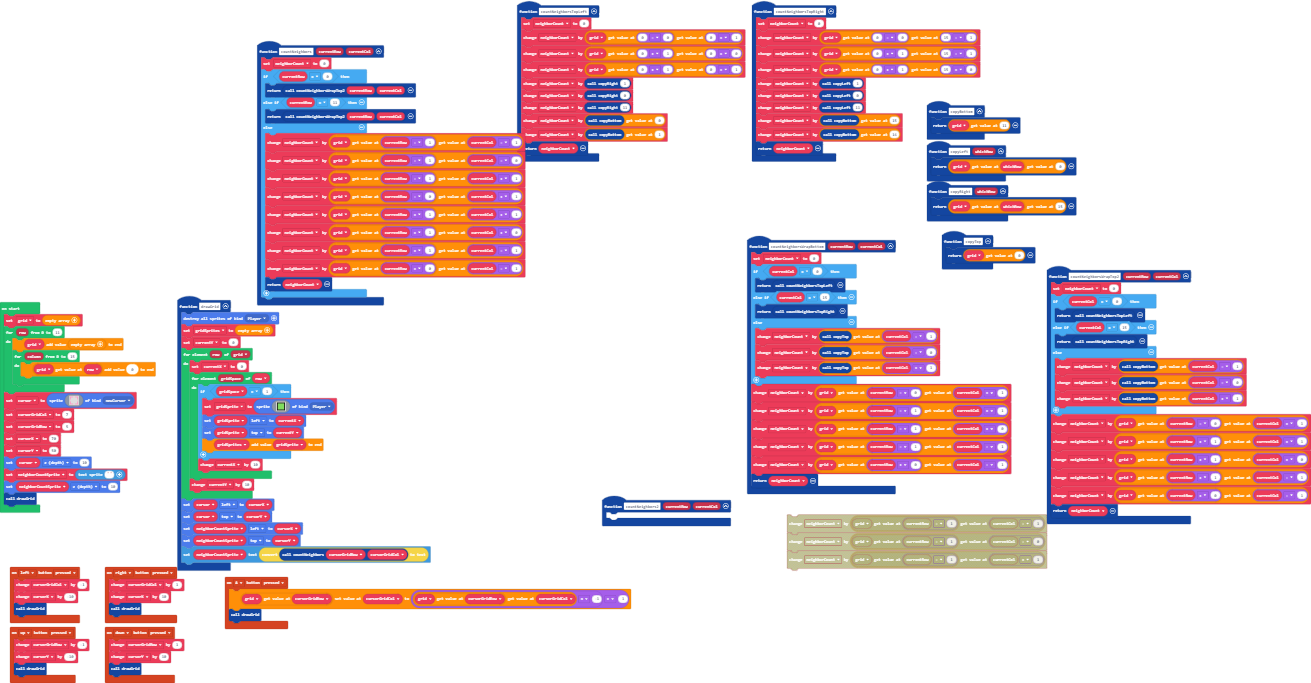
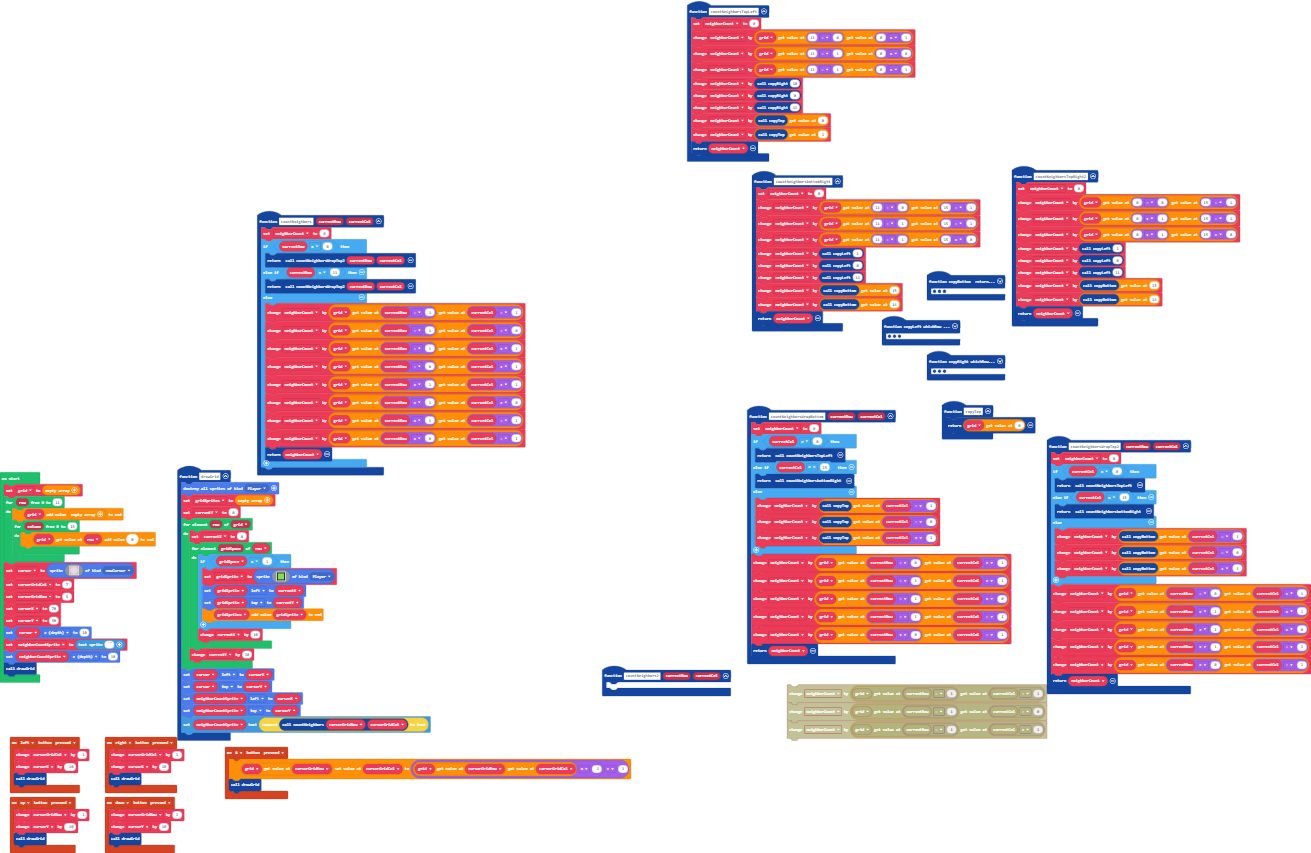
wrap bottom left and right

diff --git a/main.ts b/main.ts
@@ -11,6 +11,18 @@ controller.A.onEvent(ControllerButtonEvent.Pressed, function () {
     grid[cursorGridRow][cursorGridCol] = grid[cursorGridRow][cursorGridCol] * -1 + 1
     drawGrid()
 })
+function countNeighborsTopRight2 () {
+    neighborCount = 0
+    neighborCount += grid[0 - 0][15 - 1]
+    neighborCount += grid[0 + 1][15 - 1]
+    neighborCount += grid[0 + 1][15 + 0]
+    neighborCount += copyLeft(1)
+    neighborCount += copyLeft(0)
+    neighborCount += copyLeft(11)
+    neighborCount += copyBottom()[15]
+    neighborCount += copyBottom()[14]
+    return neighborCount
+}
 controller.left.onEvent(ControllerButtonEvent.Pressed, function () {
     cursorGridCol += -1
     cursorX += -10
@@ -66,14 +78,14 @@ function drawGrid () {
 }
 function countNeighborsTopLeft () {
     neighborCount = 0
-    neighborCount += grid[0 - 0][0 + 1]
-    neighborCount += grid[0 + 1][0 + 0]
-    neighborCount += grid[0 + 1][0 + 1]
-    neighborCount += copyRight(1)
+    neighborCount += grid[11 - 0][0 + 1]
+    neighborCount += grid[11 - 1][0 + 0]
+    neighborCount += grid[11 - 1][0 + 1]
+    neighborCount += copyRight(10)
     neighborCount += copyRight(0)
     neighborCount += copyRight(11)
-    neighborCount += copyBottom()[0]
-    neighborCount += copyBottom()[1]
+    neighborCount += copyTop()[0]
+    neighborCount += copyTop()[1]
     return neighborCount
 }
 function countNeighbors (currentRow: number, currentCol: number) {
@@ -99,18 +111,6 @@ controller.down.onEvent(ControllerButtonEvent.Pressed, function () {
     cursorY += 10
     drawGrid()
 })
-function countNeighborsTopRight () {
-    neighborCount = 0
-    neighborCount += grid[0 - 0][15 - 1]
-    neighborCount += grid[0 + 1][15 - 1]
-    neighborCount += grid[0 + 1][15 + 0]
-    neighborCount += copyLeft(1)
-    neighborCount += copyLeft(0)
-    neighborCount += copyLeft(11)
-    neighborCount += copyBottom()[15]
-    neighborCount += copyBottom()[14]
-    return neighborCount
-}
 function copyLeft (whichRow: number) {
     return grid[whichRow][0]
 }
@@ -119,7 +119,7 @@ function countNeighborsWrapTop2 (currentRow: number, currentCol: number) {
     if (currentCol == 0) {
         return countNeighborsTopLeft()
     } else if (currentCol == 15) {
-        return countNeighborsTopRight()
+        return countNeighborsbottomRight()
     } else {
         neighborCount += copyBottom()[currentCol - 1]
         neighborCount += copyBottom()[currentCol - 0]
@@ -137,7 +137,7 @@ function countNeighborsWrapBottom (currentRow: number, currentCol: number) {
     if (currentCol == 0) {
         return countNeighborsTopLeft()
     } else if (currentCol == 15) {
-        return countNeighborsTopRight()
+        return countNeighborsbottomRight()
     } else {
         neighborCount += copyTop()[currentCol - 1]
         neighborCount += copyTop()[currentCol - 0]
@@ -150,14 +150,26 @@ function countNeighborsWrapBottom (currentRow: number, currentCol: number) {
     neighborCount += grid[currentRow + 0][currentCol - 1]
     return neighborCount
 }
+function countNeighborsbottomRight () {
+    neighborCount = 0
+    neighborCount += grid[11 - 0][15 - 1]
+    neighborCount += grid[11 - 1][15 - 1]
+    neighborCount += grid[11 - 1][15 + 0]
+    neighborCount += copyLeft(1)
+    neighborCount += copyLeft(0)
+    neighborCount += copyLeft(11)
+    neighborCount += copyBottom()[15]
+    neighborCount += copyBottom()[14]
+    return neighborCount
+}
 function copyTop () {
     return grid[0]
 }
-let neighborCount = 0
 let gridSprite: Sprite = null
 let currentX = 0
 let currentY = 0
 let gridSprites: Sprite[] = []
+let neighborCount = 0
 let neighborCountSprite: TextSprite = null
 let cursorY = 0
 let cursorX = 0
